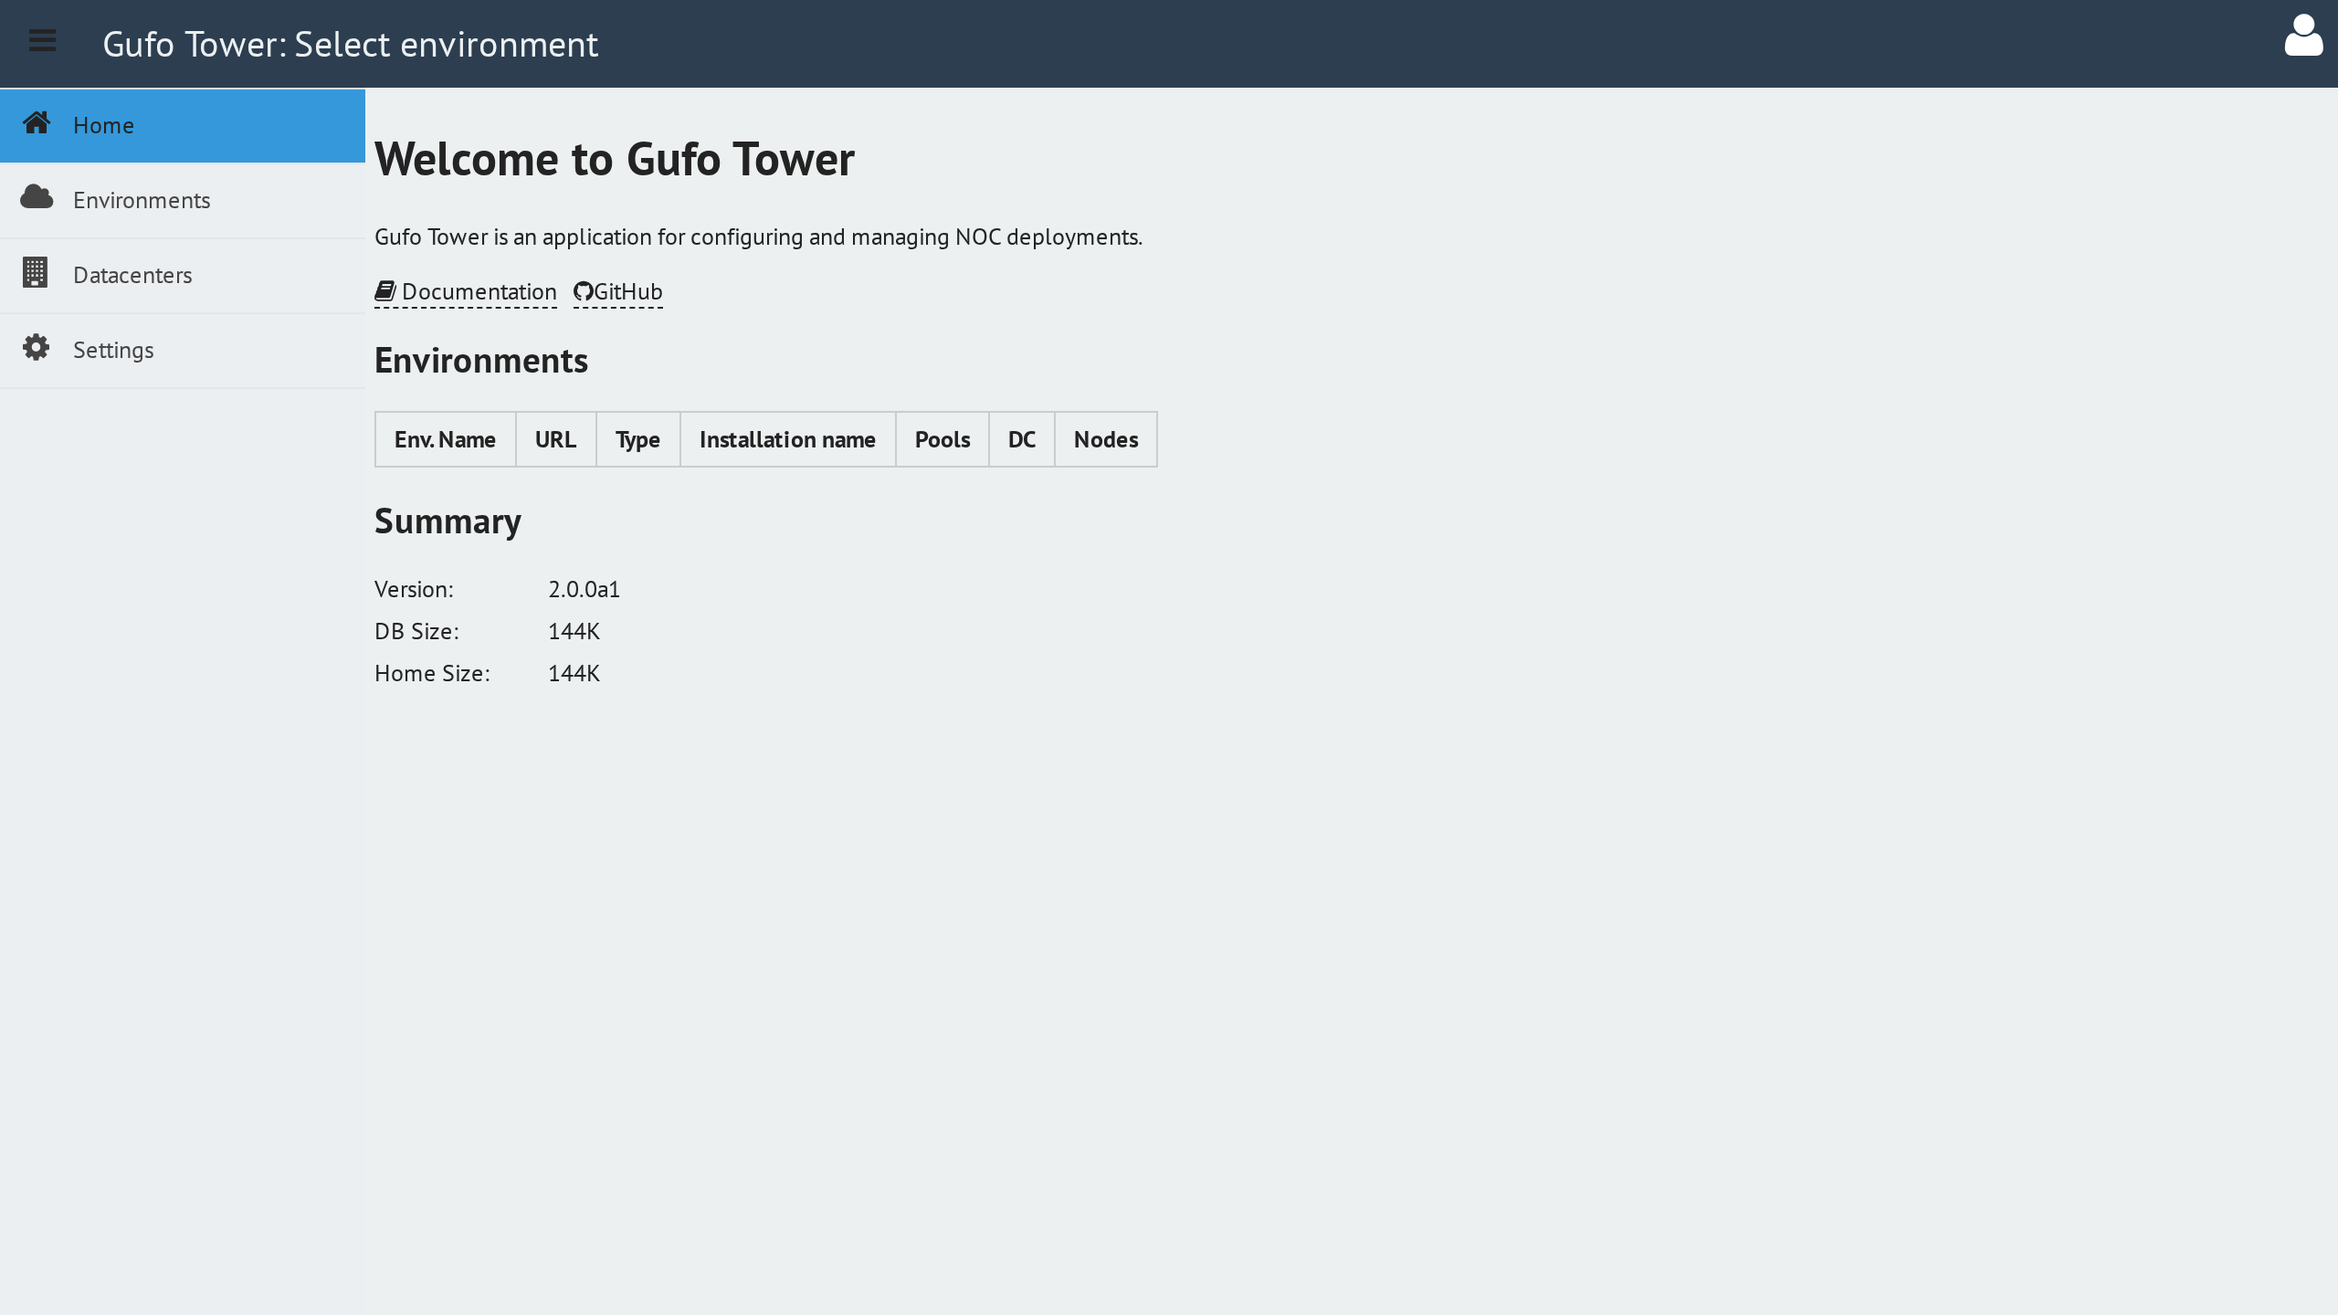
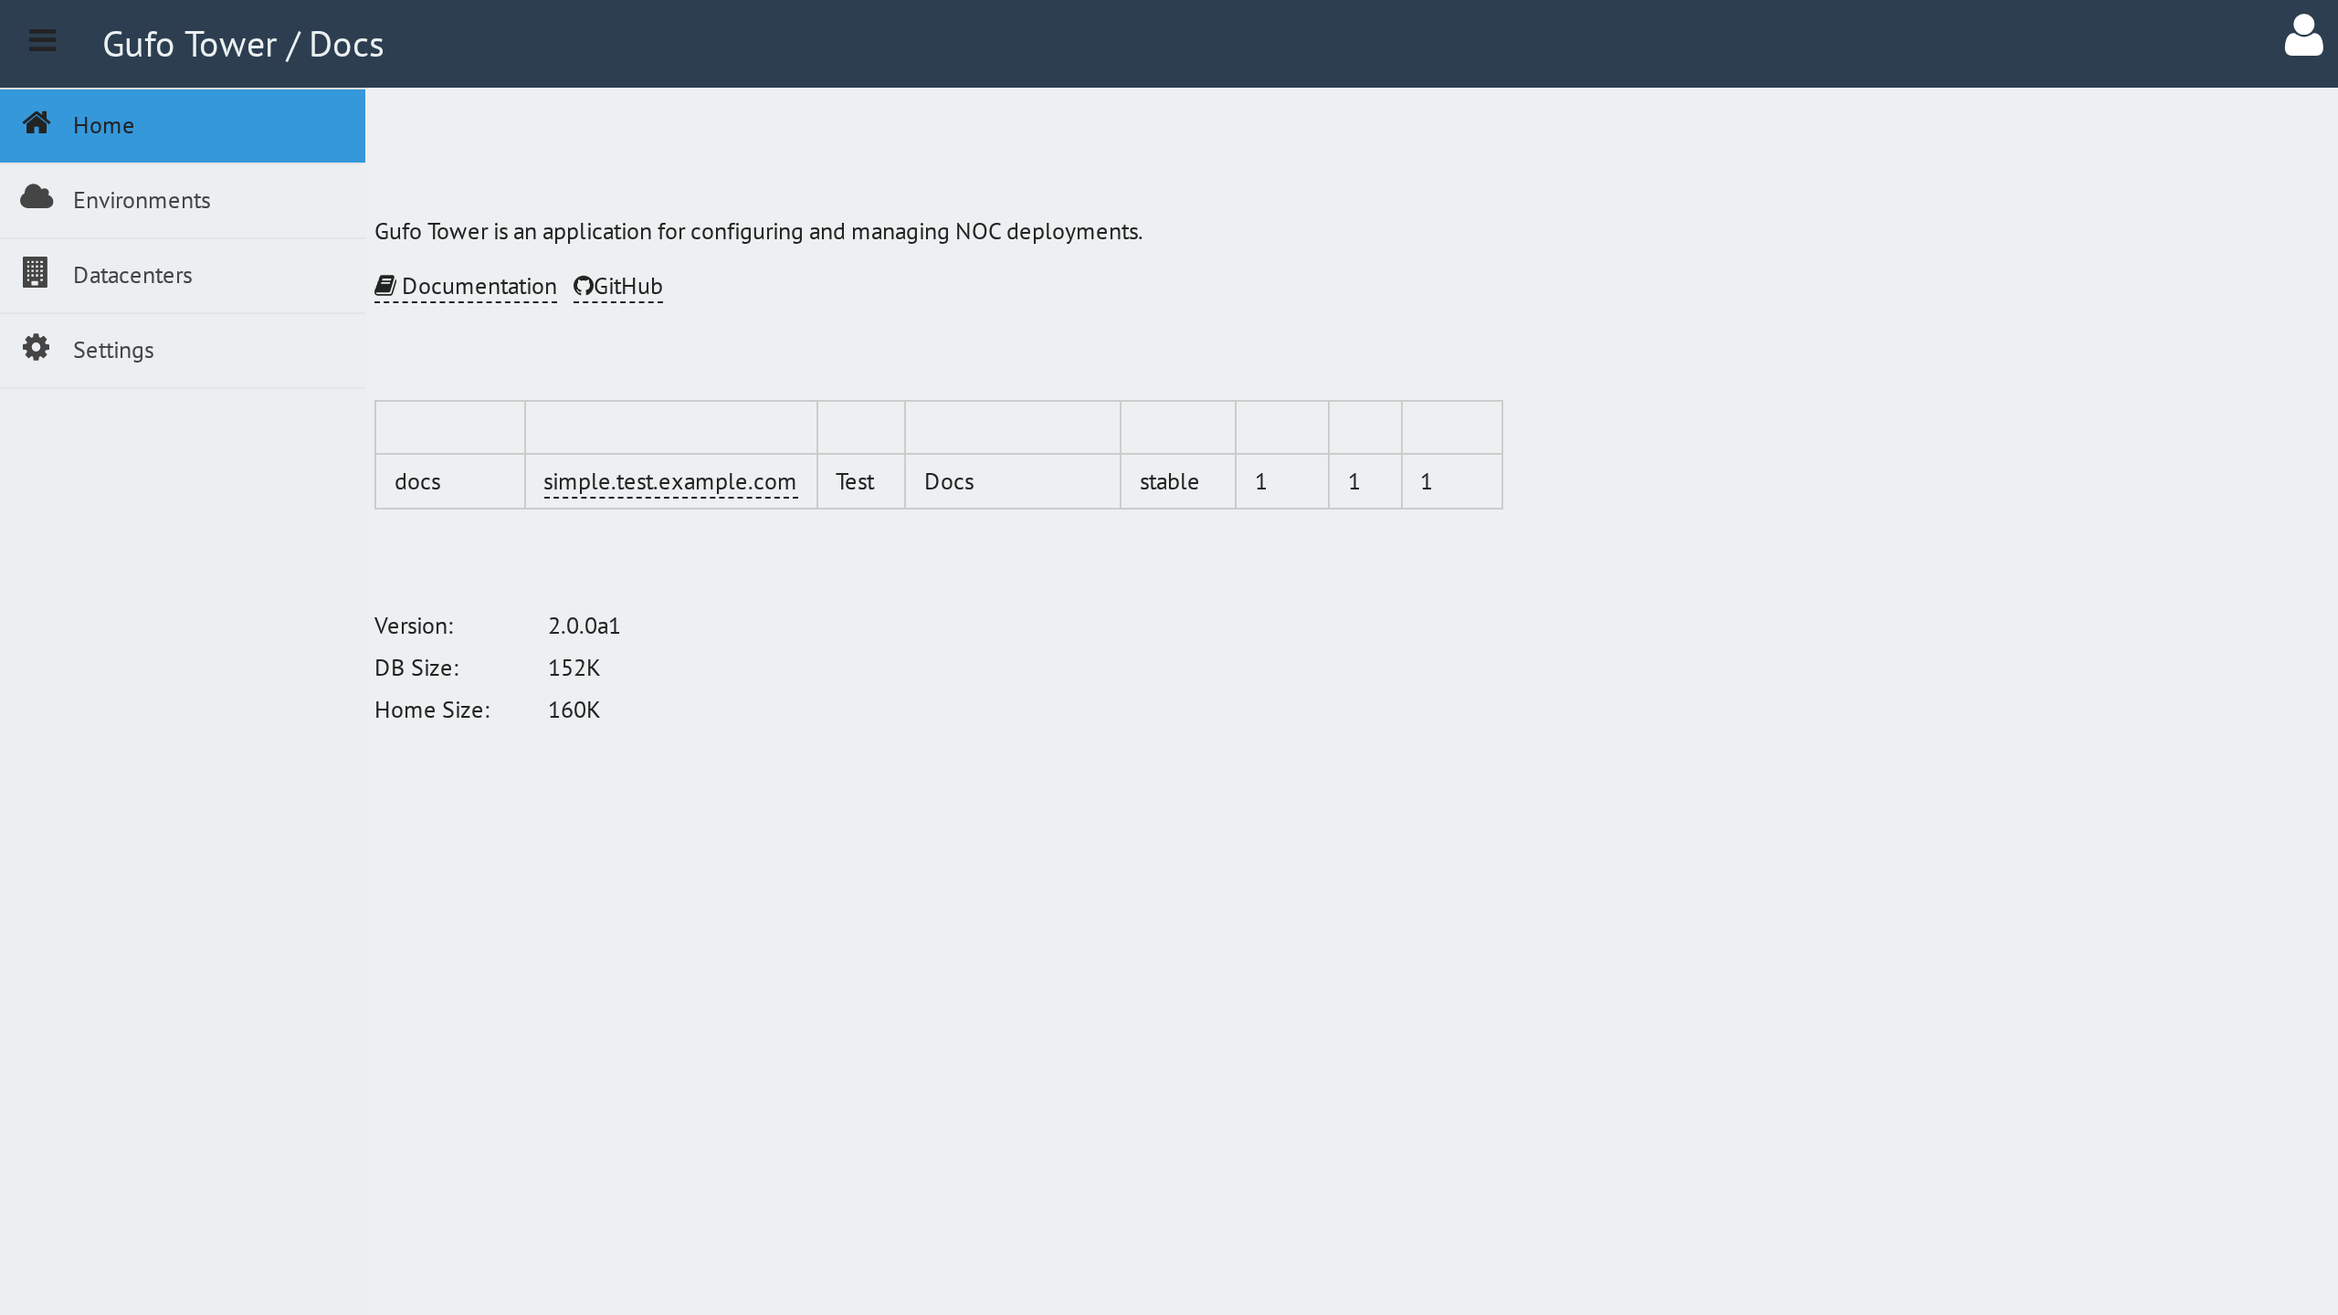
User Guide

diff --git a/src/ui/environment/form/ui.js b/src/ui/environment/form/ui.js
@@ -12,6 +12,7 @@ export const environment_form = {
     rows: [
         {
             view: "toolbar",
+            id: "environment_form_toolbar",
             cols: [
                 {
                     view: "button",
@@ -36,7 +37,19 @@ export const environment_form = {
                     autowidth: true,
                     click: environment_form_logic.on_delete
                 },
-                {}
+                {
+                    view: "spacer"
+                },
+                {
+                    view: "button",
+                    type: "icon",
+                    icon: "question-circle",
+                    label: "Help",
+                    autowidth: true,
+                    click: () => {
+                        window.open("/docs/user-guide/environment/form/", "_blank");
+                    }
+                }
             ]
         },
         {
@@ -105,9 +118,7 @@ export const environment_form = {
                                 placeholder: "yaml:///opt/noc/etc/tower.yml,yaml:///opt/noc/etc/settings.yml,env:///NOC",
                                 view: "text",
                                 name: "config_order",
-                                bottomLabel: "Read about that field <a href='https://getnoc.com/config-reference/' target='_'> here</a>",
-                                label: "Config load preference",
-
+                                label: "Config Order",
                                 required: true
                             }
                         ]
@@ -144,8 +155,7 @@ export const environment_form = {
                                         view: "text",
                                         name: "playbook_link",
                                         label: "Playbook Repo URL",
-                                        required: true,
-                                        bottomLabel: "Playbook repo format is <a href=https://pip.pypa.io/en/stable/reference/pip_install/#vcs-support>written here</a>"
+                                        required: true
                                     }
                                 ]
                             }

diff --git a/src/ui/home/logic.js b/src/ui/home/logic.js
@@ -48,14 +48,14 @@ export class HomeLogic {
     render_environments = (environments) => `
     <h2>Environments in ${installation_name.state}</h2>
 
-    <table>
+    <table id="env-summary">
         <thead>
             <tr>
                 <th>Env. Name</th>
                 <th>URL</th>
                 <th>Type</th>
                 <th>Installation name</th>
-                <th>Tag</th>
+                <th>Version</th>
                 <th>Pools</th>                
                 <th>DC</th>
                 <th>Nodes</th>
@@ -82,9 +82,9 @@ export class HomeLogic {
     </table>`;
 
     render_summary = (data) => `
-    <h2>Summary</h2>
+    <h2>Gufo Tower Summary</h2>
     
-    <div class="summary">
+    <div id="tower-summary" class="summary">
     <div>Version:</div>
     <div>${data.version}</div>
     <div>DB Size:</div>

diff --git a/src/ui/environment/list/ui.js b/src/ui/environment/list/ui.js
@@ -12,15 +12,16 @@ export const environment_list = {
     rows: [
         {
             view: "toolbar",
+            id: "environment_list_toolbar",
             elements: [
-                {
-                    view: "search",
-                    placeholder: "Search...",
-                    width: 150,
-                    on: {
-                        "onChange": environment_list_logic.on_search
-                    }
-                },
+                // {
+                //     view: "search",
+                //     placeholder: "Search...",
+                //     width: 150,
+                //     on: {
+                //         "onChange": environment_list_logic.on_search
+                //     }
+                // },
                 {
                     view: "button",
                     type: "icon",

diff --git a/src/ui/environment/form/logic.js b/src/ui/environment/form/logic.js
@@ -29,7 +29,6 @@ export class EnvironmentFormLogic {
             const data = await API.environment.get_item({
                 id: parseInt(env_id, 10)
             });
-
             $$("environment_form").setValues(data);
             $$("environment_form_panel").show();
 

diff --git a/docs/shotter/environment.py b/docs/shotter/environment.py
@@ -1,0 +1,56 @@
+# ----------------------------------------------------------------------
+# EnvironmentShotter class
+# ----------------------------------------------------------------------
+# Copyright (C) 2015-2026 Gufo Labs
+# See LICENSE for details
+# ----------------------------------------------------------------------
+
+# Python modules
+from pathlib import Path
+
+# Third-party modules
+from playwright.async_api import Page
+
+# Gufo Tower modules
+from .base import BaseShotter
+
+USER_GUIDE = Path("user-guide")
+ENVIRONMENT = USER_GUIDE / "environment"
+
+
+class EnvironmentShotter(BaseShotter):
+    require_authorized = True
+    screenshots = {
+        "environments-start": ENVIRONMENT / "environments-start.png",
+        "environments-list": ENVIRONMENT / "environments-list.png",
+        "environments-list-toolbar": ENVIRONMENT
+        / "environments-list-toolbar.png",
+        "environment-form": ENVIRONMENT / "environment-form.png",
+        "environment-form-toolbar": ENVIRONMENT
+        / "environment-form-toolbar.png",
+    }
+    fixture = "docs"
+
+    async def make_shots(self, page: Page) -> None:
+        await self.open_page(page, "/environment")
+        # Grab desktop
+        async with self.highlight(page.locator('[webix_tm_id="environment"]')):
+            await self.screenshot(page, "environments-start")
+        # Environment list
+        async with self.highlight(
+            page.locator('[view_id="environment_list"]')
+        ):
+            await self.screenshot(page, "environments-list")
+        # Environments toolbar
+        await self.screenshot(
+            page.locator('[view_id="environment_list_toolbar"]'),
+            "environments-list-toolbar",
+        )
+        # Go to the form
+        await self.open_page(page, "/environment/1")
+        await self.screenshot(page, "environment-form")
+        # Capture toolbar
+        await self.screenshot(
+            page.locator('[view_id="environment_form_toolbar"]'),
+            "environment-form-toolbar",
+        )

diff --git a/docs/shotter/home.py b/docs/shotter/home.py
@@ -1,0 +1,39 @@
+# ----------------------------------------------------------------------
+# DesktopShotter class
+# ----------------------------------------------------------------------
+# Copyright (C) 2015-2026 Gufo Labs
+# See LICENSE for details
+# ----------------------------------------------------------------------
+
+# Python modules
+from pathlib import Path
+
+# Third-party modules
+from playwright.async_api import Page
+
+# Gufo Tower modules
+from .base import BaseShotter
+
+USER_GUIDE = Path("user-guide")
+HOME = USER_GUIDE / "home"
+
+
+class HomeShotter(BaseShotter):
+    require_authorized = True
+    screenshots = {
+        "home": HOME / "home.png",
+        "env-summary": HOME / "env-summary.png",
+        "tower-summary": HOME / "tower-summary.png",
+    }
+    fixture = "docs"
+
+    async def make_shots(self, page: Page) -> None:
+        await self.open_page(page)
+        # Grab desktop
+        await self.screenshot(page, "home")
+        # Env summary
+        async with self.highlight(page.locator(".home #env-summary")):
+            await self.screenshot(page, "env-summary")
+        # Tower summary
+        async with self.highlight(page.locator(".home #tower-summary")):
+            await self.screenshot(page, "tower-summary")

diff --git a/docs/shotter/desktop.py b/docs/shotter/desktop.py
@@ -29,6 +29,7 @@ class DesktopShotter(BaseShotter):
         "desktop-working-area": DESKTOP / "desktop-working-area.png",
         "desktop-menu": DESKTOP / "desktop-menu.png",
     }
+    fixture = "docs"
 
     async def make_shots(self, page: Page) -> None:
         await self.open_page(page)

diff --git a/docs/user-guide/environment/form.md b/docs/user-guide/environment/form.md
@@ -1,0 +1,65 @@
+# Environment Form
+
+The **Environment Form** is used to create and edit Environments.
+
+![Environmnet Form](environment-form.png)
+
+## Name
+
+The Environment name.
+
+The name should be reasonably short and may contain only Latin letters (uppercase or lowercase), digits, and underscores (`_`). The name must be unique among Environments.
+
+## Description
+
+A detailed, human-readable description of the Environment.
+
+## URL
+
+The starting URL of the NOC web application. This is the address at which the NOC installation will be available to users.
+
+## Installation Name
+
+The human-readable name of the NOC installation. It is displayed in the NOC application header.
+
+## Type
+
+The Environment type. See [Environment Types](environment-types.md) for details.
+
+## Config Order
+
+Defines the order in which the NOC configuration is loaded.
+
+For details, refer to the [NOC Configuration System Overview](https://getnoc.com/config-reference/).
+
+## Install Method
+
+Defines the method used to install NOC.
+
+## Playbook Repo URL
+
+The URL of the Git repository from which the Ansible playbooks will be obtained.
+
+The URL may use the following schemes:
+
+| Scheme | Description |
+| --- | --- |
+| `http://` | Git repository accessed over HTTP. |
+| `https://` | Git repository accessed over HTTPS. |
+| `git://` | Git repository accessed using the Git protocol. |
+| `ssh://` | Git repository accessed using SSH. |
+| `git+http://` | Git repository accessed over HTTP using Git/Pip-style URL syntax. |
+| `git+https://` | Git repository accessed over HTTPS using Git/Pip-style URL syntax. |
+| `git+ssh://` | Git repository accessed using SSH using Git/Pip-style URL syntax. |
+
+## Environment Form Toolbar
+
+The toolbar provides actions for managing the current Environment.
+
+![Environment Form Toolbar](environment-form-toolbar.png)
+
+| Button | Description |
+| --- | --- |
+| **Back** | Return to the [Environment List](list.md). |
+| **Save** | Save changes to the current Environment. |
+| **Delete** | Delete the current Environment. |

diff --git a/docs/user-guide/home/index.md b/docs/user-guide/home/index.md
@@ -1,0 +1,40 @@
+# Home Dashboard
+
+The **Home Dashboard** is the main information screen displayed after launching Gufo Tower.
+
+![Home](home.png)
+
+## Environments Summary
+
+The **Environments Summary** table provides an overview of all environments configured in Gufo Tower.
+
+For more information about environments, refer to the [Environment](../environment/index.md) section of the documentation.
+
+![Environments Summary](env-summary.png)
+
+The table contains the following columns:
+
+| Column | Description |
+| --- | --- |
+| **Env Name** | Environment name. |
+| **URL** | Starting URL of the NOC application. Clicking the URL opens the corresponding NOC installation in a new browser tab. |
+| **Type** | Installation type. Refer to the [Environment](../environment/index.md) section for details. |
+| **Installation Name** | Human-readable installation name displayed in the NOC application header. |
+| **Version** | Deployed NOC version, Git branch, or tag. |
+| **Pools** | Total number of pools in the environment. Refer to the [Pool](../pool/index.md) section for details. |
+| **DC** | Total number of datacenters occupied by the environment. Refer to the [Datacenter](../datacenter/index.md) section for details. |
+| **Nodes** | Total number of nodes running the environment. Refer to the [Node](../node/index.md) section for details. |
+
+## Gufo Tower Summary
+
+The **Gufo Tower Summary** provides an overview of the Gufo Tower installation itself.
+
+![Gufo Tower Summary](tower-summary.png)
+
+The summary contains the following information:
+
+| Field | Description |
+| --- | --- |
+| **Version** | Version of Gufo Tower. |
+| **DB Size** | Size of the Gufo Tower configuration database. |
+| **Home Size** | Size of the Gufo Tower home directory. Refer to [Home Directory Structure](../../reference/home-structure.md) for details. |

diff --git a/docs/user-guide/environment/list.md b/docs/user-guide/environment/list.md
@@ -1,0 +1,31 @@
+# Working with the Environment List
+
+The **Environment List** displays all [environments](index.md) currently configured in Gufo Tower.
+
+![Environment List](environments-list.png)
+
+The list contains the following columns:
+
+| Column | Description |
+| --- | --- |
+| **Environment** | Environment name. |
+| **Type** | Environment type. See [Environment Types](environment-types.md) for details. |
+| **URL** | Starting page of the NOC web application. Clicking the URL opens the corresponding NOC installation. |
+| **Description** | Text description of the environment. |
+
+Clicking an Environment row makes it the **active Environment** for the entire Gufo Tower application.
+
+To view and configure an Environment, double-click the corresponding row in the list to open the [Environment Form](form.md).
+
+A toolbar above the list provides actions for managing Environments.
+
+![Environments Toolbar](environments-list-toolbar.png)
+
+The toolbar contains the following buttons:
+
+| Button | Description |
+| --- | --- |
+| **Create New** | Creates a new Environment. |
+| **Inventory** | Displays the Ansible inventory file for the selected Environment. Available only when an Environment is selected. See [Show Inventory](show-inventory.md) for details. |
+| **Pull** | Pulls the playbooks for the selected Environment. Available only when an Environment is selected. See [Pull](pull.md) for details. |
+| **Deploy** | Runs the deployment for the selected Environment. Available only when an Environment is selected. See [Deploy](deploy.md) for details. |

diff --git a/docs/user-guide/environment/environment-types.md b/docs/user-guide/environment/environment-types.md
@@ -1,0 +1,11 @@
+## Environment Types
+
+Each Environment has a type that describes its purpose and lifecycle.
+
+| Type | Description |
+| --- | --- |
+| **Productive** | A production installation serving production workloads. It is typically deployed at the customer site. |
+| **Test** | A test environment, usually accompanying a production installation. It is used to test the system before deploying changes to production. Test environments are typically deployed at the customer site. |
+| **Develop** | A development environment used by developers. It does not require the same performance optimization as a production environment, but provides the resources required to support the development process. |
+| **Evaluation** | A temporary environment used for evaluation and experimentation. It is typically deployed to explore and test the system and may be created and removed multiple times. |
+| **Other** | An installation that does not fit into any of the predefined environment types. |

diff --git a/docs/user-guide/environment/index.md b/docs/user-guide/environment/index.md
@@ -1,0 +1,22 @@
+# Environments
+
+An **Environment** represents a separate NOC installation and provides an isolated environment for installing, configuring, and managing NOC.
+
+Gufo Tower can manage multiple NOC installations simultaneously. Each installation is represented by a separate Environment in Gufo Tower.
+
+Each Environment contains the configuration and information required to manage its corresponding NOC installation.
+
+## Accessing Environments
+
+To access Environments, select the **Environments** item in the sidebar.
+
+![Environments](environments-start.png)
+
+## Contents
+
+- [Environment List](list.md)
+- [Environment Form](form.md)
+- [Pull](pull.md)
+- [Deploy](deploy.md)
+- [Show Inventory](show-inventory.md)
+- [Environment Types](environment-types.md)
